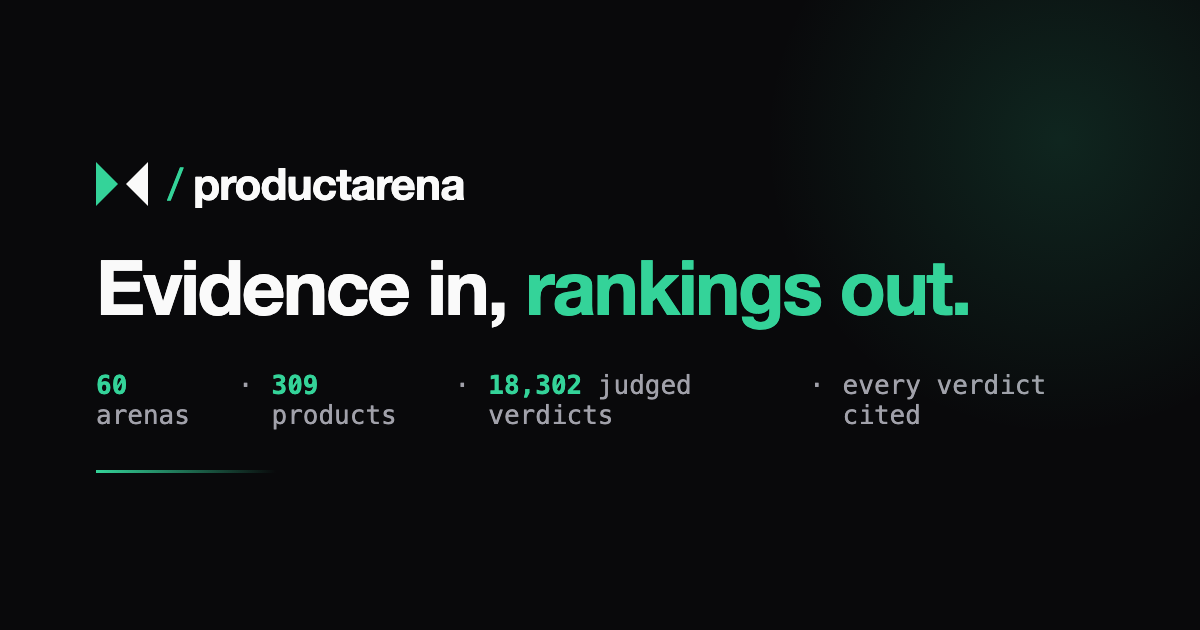
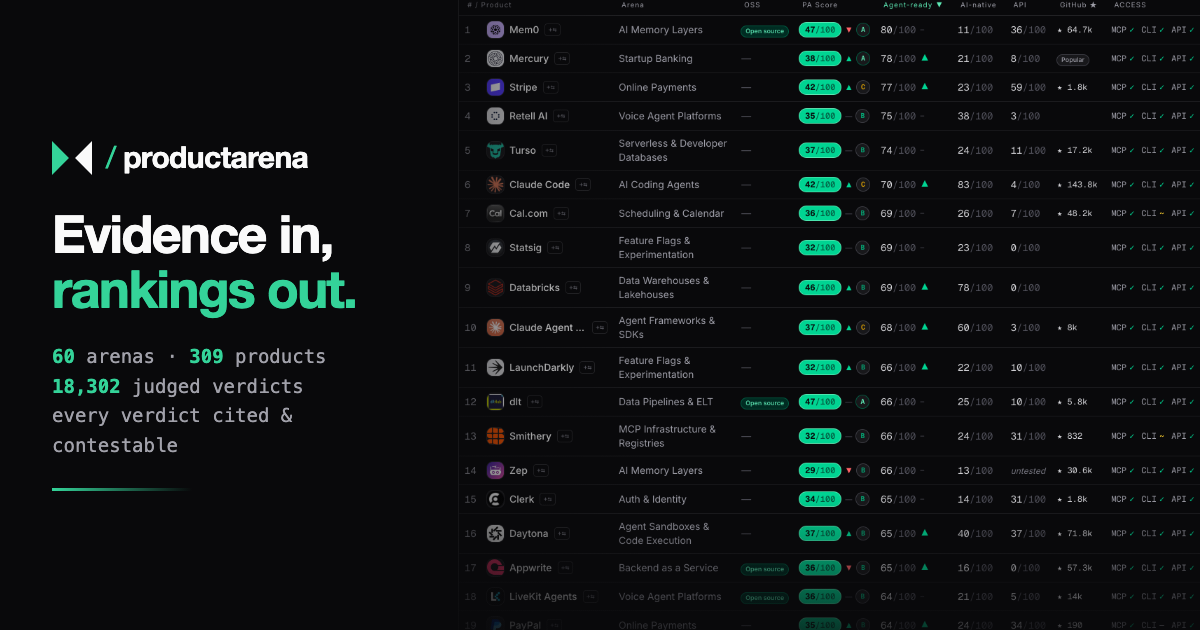
OG image: golden-ratio split with live rankings table; hide flagged-off watchlist page

diff --git a/app/watchlist/page.tsx b/app/watchlist/page.tsx
@@ -1,6 +1,7 @@
 import type { Metadata } from 'next'
 import WatchlistClient from '@/components/WatchlistClient'
 import { loadAll } from '@/lib/data'
+import { notFound } from 'next/navigation'
 import { WATCHLIST_ENABLED } from '@/lib/flags'
 import { loadScoreHistory } from '@/lib/scoreHistory'
 import type { WatchlistProduct } from '@/lib/watchlist'
@@ -39,26 +40,10 @@ function buildWatchlistProducts(): WatchlistProduct[] {
 }
 
 export default function WatchlistPage() {
-  // Flagged off until login lands (see lib/flags.ts) — the URL keeps resolving (old links,
-  // bookmarks) but renders a short shell instead of the list UI.
+  // Flagged off until login lands (see lib/flags.ts) — house rule: unshipped features are
+  // hidden entirely, never shown as "coming soon".
   if (!WATCHLIST_ENABLED) {
-    return (
-      <div className="mx-auto max-w-3xl space-y-4">
-        <h1 className="font-display leading-[1.1] text-3xl font-bold tracking-tight">Watchlist</h1>
-        <p className="text-sm text-zinc-400">
-          Coming soon — the watchlist will sync with your Ultrametric account, with alerts when a
-          verdict flips or a score moves.
-        </p>
-        <a
-          href="https://app.ultrametric.ai/"
-          target="_blank"
-          rel="noopener noreferrer"
-          className="inline-block rounded-lg border border-emerald-400/60 px-3 py-1.5 text-xs font-medium text-emerald-300 transition hover:bg-emerald-400/10"
-        >
-          Create an Ultrametric account ↗
-        </a>
-      </div>
-    )
+    notFound()
   }
   const products = buildWatchlistProducts()
   return (
